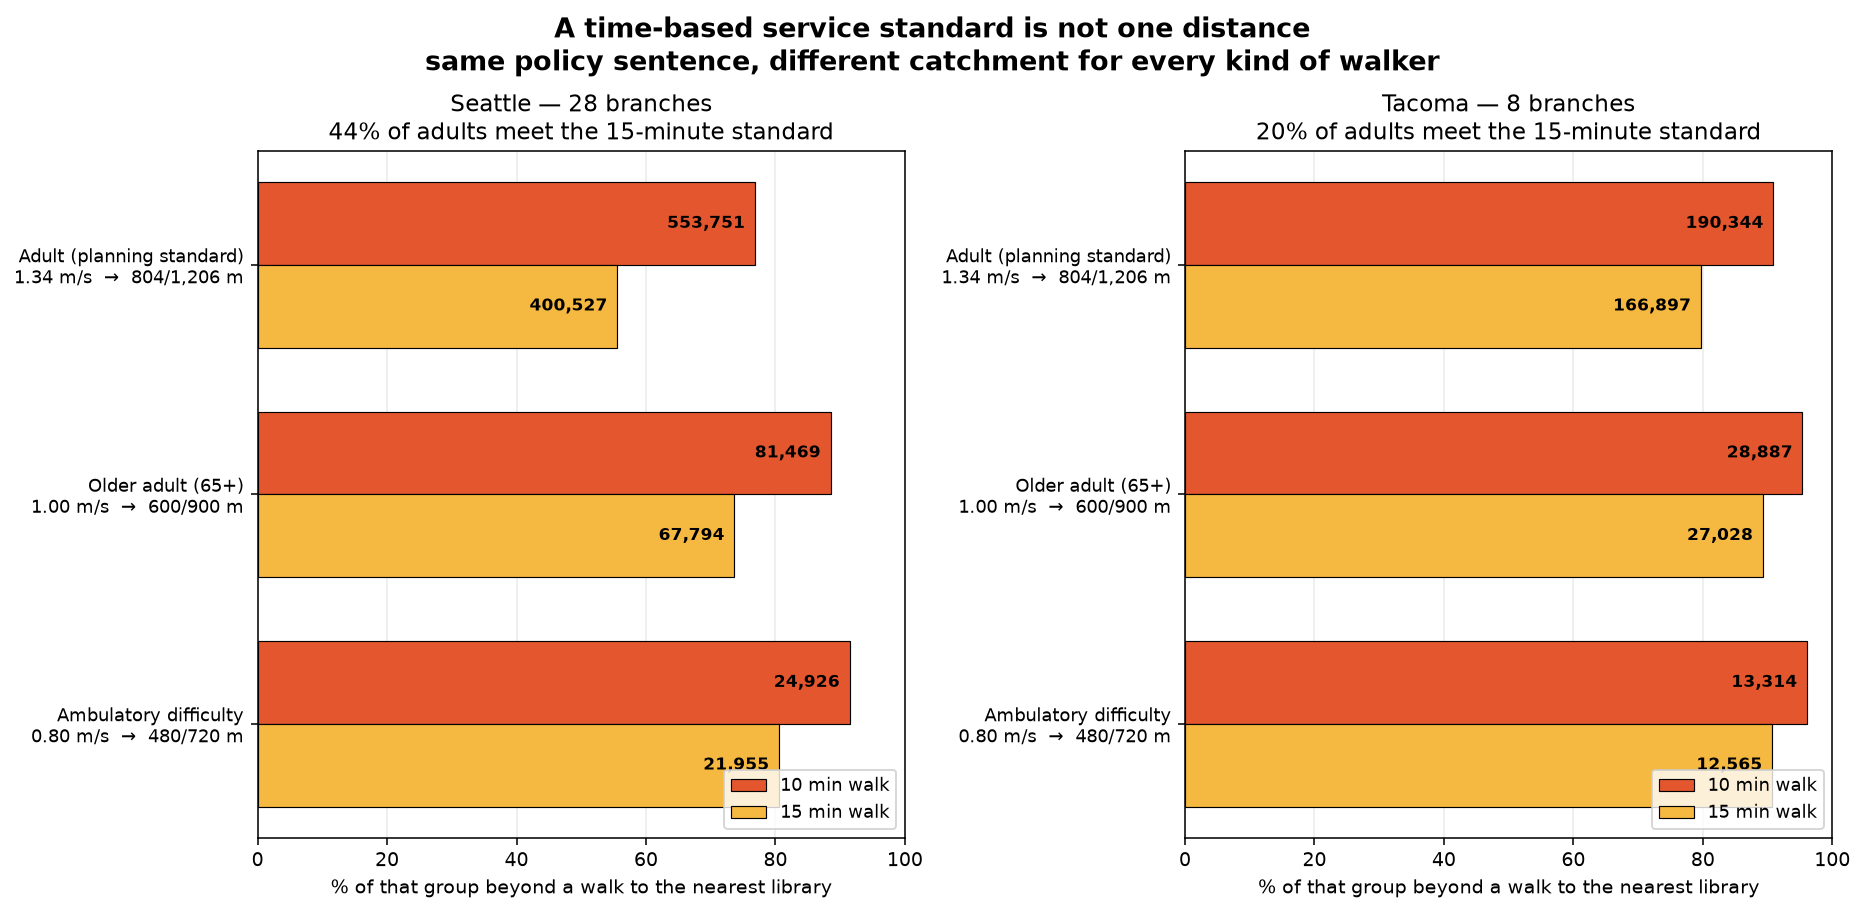
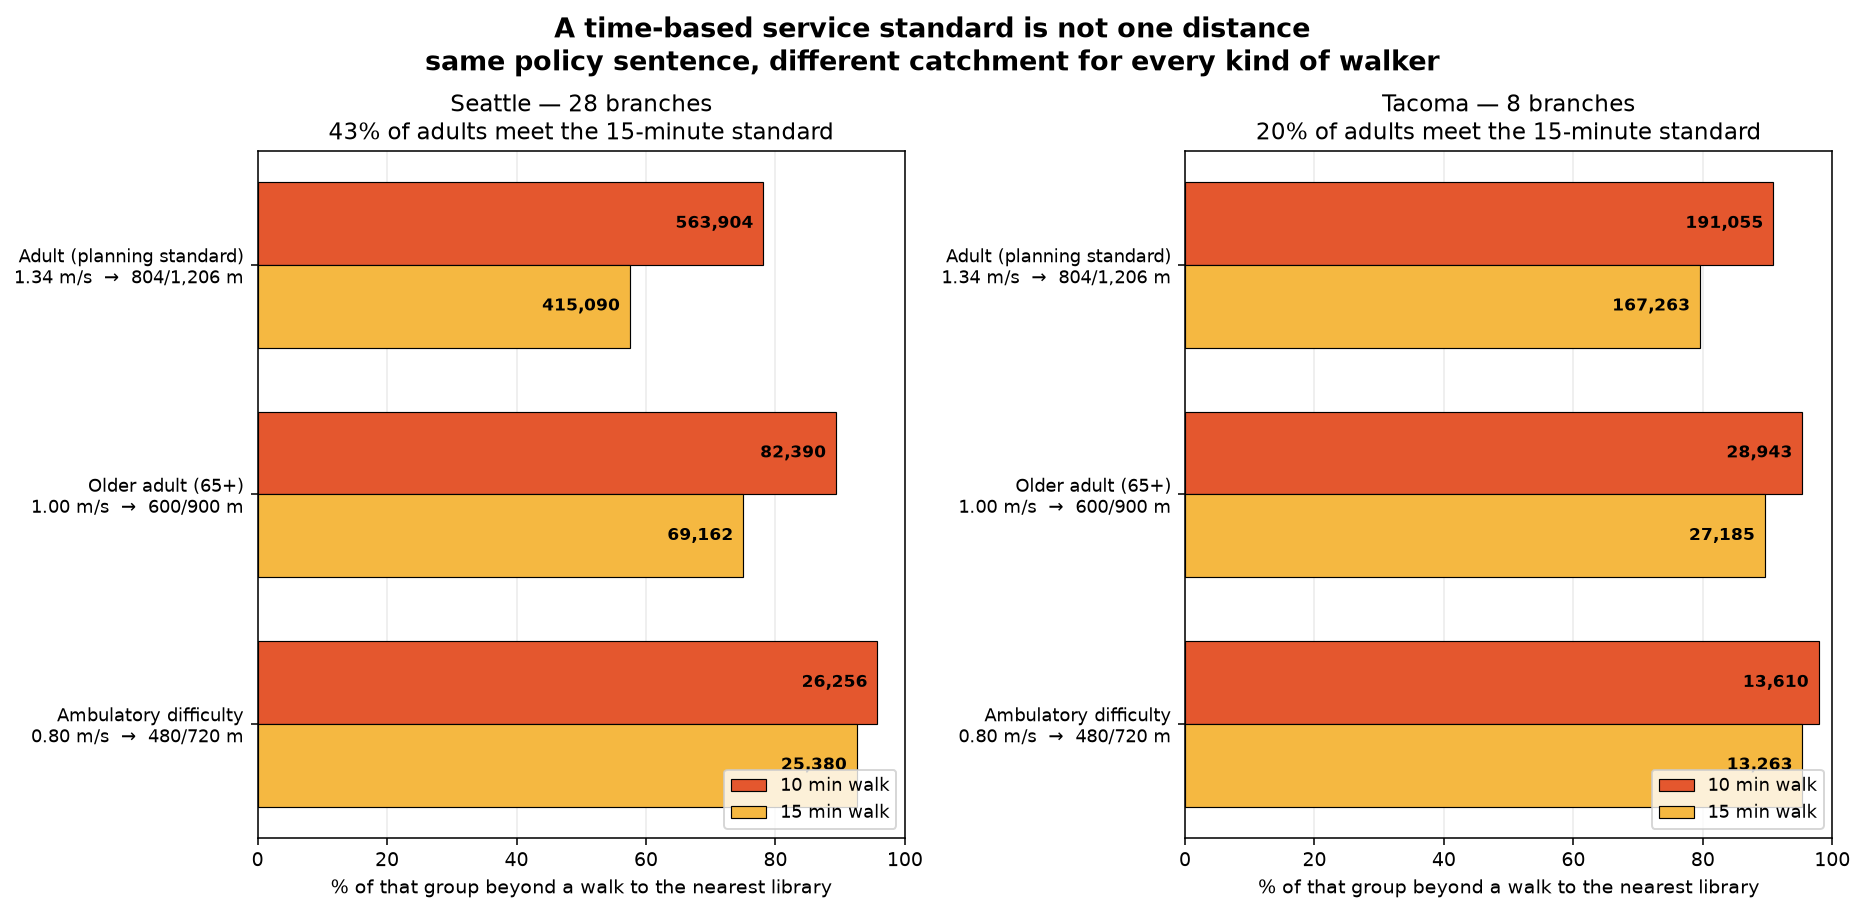
Verify every write-up figure against a fresh run; make ccl installable
Adds scripts/verify_writeup.py, which recomputes all 63 numeric claims in
WRITEUP.md from current data: benchmark table, random distribution percentiles,
correlations, median and worst-point gains, pocket structure, the ladder,
profile distances and percentages, slope decomposition, grade exclusion with its
threshold range, and detour ratios. All 63 match.

Two defects found while checking. The write-up's reproduce block did not work:
uv init created a non-package project, so every entry point needed
PYTHONPATH=src. Added a hatchling build-system with packages = ['src/ccl'], so
'uv run python -m ccl.report seattle' now works from a clean checkout, and
removed the PYTHONPATH prefixes from both documents.

And ccl.viz_standards had been broken since phase 5 - it still imported
'underserved' from ccl.standards, which was renamed to time_underserved when
standards moved from distance to travel time. It is the module that produces the
profile chart the README displays, so the README image was unreproducible.
Ported to the current API; all 20 modules now import from a bare checkout.

diff --git a/scripts/verify_writeup.py b/scripts/verify_writeup.py
@@ -1,0 +1,117 @@
+import numpy as np
+from scipy import ndimage, stats
+from ccl.bench import results, score, random_picks, field_from, CONN4
+from ccl.build import load
+from ccl.cities import PROFILES, distance_m
+from ccl.ladder import rungs
+from ccl.sensitivity import stranded_profile
+
+CITIES = ["seattle", "tacoma", "phoenix"]
+ok = fail = 0
+def chk(label, claim, got, tol=0.0):
+    global ok, fail
+    good = abs(claim - got) <= max(tol, abs(got) * 0.005)
+    print(f"  {'OK ' if good else 'XX '} {label:44s} claim {claim:>12,.2f}  got {got:>12,.2f}")
+    globals().__setitem__('ok', ok + good); globals().__setitem__('fail', fail + (not good))
+
+R = {c: results(c, k=8) for c in CITIES}
+D = {c: load(c) for c in CITIES}
+
+print("BENCHMARK TABLE")
+claims = {
+ "MCLP greedy": [84673, 51174, 86538],
+ "PH by persistence": [25037, 10368, 12462],
+ "PH by population": [16409, 22563, 7283],
+ "worst-point (no topology)": [5139, 6507, 4722],
+}
+for nm, vals in claims.items():
+    for c, v in zip(CITIES, vals):
+        chk(f"{nm[:20]} {c}", v, R[c]["rows"][nm]["covered"] - R[c]["base"]["covered"], 1)
+
+print("\nRANDOM: 30 draws (mean, and % of draws each PH beats)")
+rand_claims = {"seattle": 33845, "tacoma": 21918, "phoenix": 24453}
+pct_claims = {"seattle": (16.7, 0.0), "tacoma": (0.0, 63.3), "phoenix": (0.0, 0.0)}
+best_seattle = None
+for c in CITIES:
+    s, std, base = R[c]["s"], R[c]["standard"], R[c]["base"]["covered"]
+    dr = np.array([score(s, random_picks(s, 8, sd), std)["covered"] - base for sd in range(30)])
+    if c == "seattle": best_seattle = dr.max()
+    chk(f"random mean {c}", rand_claims[c], dr.mean(), 1)
+    for nm, cl in zip(["PH by persistence", "PH by population"], pct_claims[c]):
+        v = R[c]["rows"][nm]["covered"] - base
+        chk(f"{nm[:17]} pctile {c}", cl, 100.0 * (dr < v).mean(), 0.1)
+chk("Seattle best of 30 random draws", 49921, best_seattle, 1)
+
+print("\nMECHANISM: correlations, median gains, worst-point gain")
+corr = {"seattle": (0.01, 0.19), "tacoma": (-0.13, -0.02), "phoenix": (-0.26, -0.25)}
+med = {"seattle": 3575, "tacoma": 2699, "phoenix": 2847}
+wp = {"seattle": 477, "tacoma": 66, "phoenix": 91}
+for c in CITIES:
+    s, d, cov, std = R[c]["s"], D[c], R[c]["cov"], R[c]["standard"]
+    base = field_from(s, d["fac_nodes"])
+    done = ((base <= std) & d["inhabited"]).ravel()
+    pf = np.where(d["inhabited"].ravel(), d["population"].ravel(), 0.0)
+    gain = (cov & ~done) @ pf
+    rem = np.array([base[r, cc] for r, cc in s["cand_rc"]]) / 60.0
+    m = np.isfinite(rem) & np.isfinite(gain)
+    chk(f"pearson {c}", corr[c][0], stats.pearsonr(rem[m], gain[m]).statistic, 0.005)
+    chk(f"spearman {c}", corr[c][1], stats.spearmanr(rem[m], gain[m]).statistic, 0.005)
+    chk(f"median candidate gain {c}", med[c], np.median(gain[m]), 1)
+    chk(f"worst-point site gain {c}", wp[c],
+        np.median(gain[R[c]["picks"]["worst-point (no topology)"]]), 1)
+
+print("\nPOCKET STRUCTURE")
+shares = {"seattle": 40.6, "tacoma": 90.8, "phoenix": 98.4}
+for c in CITIES:
+    s, d, std = R[c]["s"], D[c], R[c]["standard"]
+    base = field_from(s, d["fac_nodes"])
+    lab, n = ndimage.label((base > std) & d["land"], structure=CONN4)
+    pops = np.array(sorted([d["population"][lab == i].sum() for i in range(1, n+1)])[::-1])
+    chk(f"largest pocket share {c}", shares[c], 100*pops[0]/pops.sum(), 0.1)
+    if c == "seattle":
+        for nm, cl in [("PH by persistence", 67639), ("PH by population", 168663)]:
+            rc = s["cand_rc"][R[c]["picks"][nm]]
+            pp = np.array([0.0] + [d["population"][lab == i].sum() for i in range(1, n+1)])
+            chk(f"median pocket pop {nm[6:]}", cl,
+                np.median([pp[lab[r, cc]] for r, cc in rc]), 1)
+
+print("\nLADDER (Seattle)")
+rs = rungs("seattle")
+for i, cl in enumerate([35.8, 55.4, 57.5, 92.5]):
+    chk(f"rung {i+1} pct", cl, rs[i]["pct"], 0.05)
+chk("network step pp", 19.7, rs[1]["pct"]-rs[0]["pct"], 0.05)
+chk("terrain step pp", 2.1, rs[2]["pct"]-rs[1]["pct"], 0.05)
+chk("radius understates, points", 21.7, rs[2]["pct"]-rs[0]["pct"], 0.05)
+chk("radius understates, people", 156787, rs[2]["n"]-rs[0]["n"], 5)
+
+print("\nPROFILES + SLOPE + GRADE EXCLUSION (Seattle)")
+d = D["seattle"]; m = d["land"]
+for p, cl in zip(PROFILES, [1206, 900, 720]):
+    chk(f"{p.key} 15-min distance m", cl, distance_m(p, 15), 1)
+for p, cl in zip(PROFILES, [57.5, 75.0, 92.5]):
+    tot = d[p.pop_field][m].sum()
+    chk(f"{p.key} beyond 15 min pct", cl,
+        100*d[p.pop_field][m & ~(d[f'time_{p.key}'] <= 900)].sum()/tot, 0.05)
+adult, mob = PROFILES[0], PROFILES[2]
+for p, cl in [(adult, 2.1), (mob, 12.3)]:
+    tot = d[p.pop_field][m].sum()
+    with_s = 100*d[p.pop_field][m & ~(d[f'time_{p.key}'] <= 900)].sum()/tot
+    flat = 100*d[p.pop_field][m & (d["network"] > distance_m(p, 15))].sum()/tot
+    chk(f"slope cost {p.key} (pp)", cl, with_s - flat, 0.3)
+st = stranded_profile("seattle")
+chk("no route within 5% grade", 12736, st["count"], 5)
+chk("  as pct of group", 46.0, 100*st["count"]/d["pop_ambulatory"][m].sum(), 0.5)
+chk("threshold range low", 966, st["range"][0], 5)
+chk("threshold range high", 18925, st["range"][1], 5)
+chk("median walk, no slope penalty", 41, st["median_min_no_penalty"], 0.5)
+chk("pct over 60 min, no penalty", 10, st["pct_over_60_no_penalty"], 0.6)
+
+print("\nDETOUR RATIOS")
+for c, cl in [("seattle", 1.32), ("phoenix", 1.35)]:
+    d = D[c]; mm = d["land"] & np.isfinite(d["network"]) & np.isfinite(d["euclidean"])
+    r = d["network"][mm]/np.maximum(d["euclidean"][mm], 1)
+    w = d["population"][mm]; o = np.argsort(r)
+    cw = np.cumsum(w[o])/w.sum()
+    chk(f"median detour {c}", cl, r[o][np.searchsorted(cw, 0.5)], 0.005)
+
+print(f"\n{'=' * 72}\n  {ok} verified, {fail} MISMATCHED\n{'=' * 72}")

diff --git a/src/ccl/viz_standards.py b/src/ccl/viz_standards.py
@@ -7,7 +7,7 @@ import numpy as np
 
 from ccl.build import load
 from ccl.cities import PROFILES, TIME_BUDGETS_MIN, distance_m, get
-from ccl.standards import underserved
+from ccl.standards import time_underserved
 
 OUT = Path(__file__).resolve().parents[2] / "out"
 COLORS = {10: "#e4572e", 15: "#f5b841"}
@@ -25,7 +25,7 @@ def plot(city_keys=("seattle", "tacoma")) -> Path:
         for i, minutes in enumerate(TIME_BUDGETS_MIN):
             pct, labels = [], []
             for p in PROFILES:
-                b, t = underserved(d, "network", p.pop_field, distance_m(p, minutes))
+                b, t, _ = time_underserved(d, p, minutes)
                 pct.append(100 * b / t)
                 labels.append(f"{b:,.0f}")
             off = (i - 0.5) * h
@@ -44,10 +44,8 @@ def plot(city_keys=("seattle", "tacoma")) -> Path:
         ax.invert_yaxis()
         ax.set_xlim(0, 100)
         ax.set_xlabel("% of that group beyond a walk to the nearest library")
-        cov = 100 * (1 - underserved(d, "network", "population",
-                                     distance_m(PROFILES[0], 15))[0]
-                     / underserved(d, "network", "population",
-                                   distance_m(PROFILES[0], 15))[1])
+        b15, t15, _ = time_underserved(d, PROFILES[0], 15)
+        cov = 100 * (1 - b15 / t15)
         ax.set_title(f"{city.place.split(',')[0]} — {int(d['fac_nodes'].size)} branches\n"
                      f"{cov:.0f}% of adults meet the 15-minute standard", fontsize=12)
         ax.grid(axis="x", alpha=0.25)

diff --git a/README.md b/README.md
@@ -267,7 +267,7 @@ walker-profile breakdown, the slope/ADA page, underserved pockets with populatio
 and the siting benchmark, with methods and caveats stated on the page.
 
 ```bash
-PYTHONPATH=src uv run python -m ccl.report seattle tacoma
+uv run python -m ccl.report seattle tacoma
 ```
 
 
@@ -678,11 +678,11 @@ uv run python src/ccl/fetch.py               # Seattle City GIS facility layers
 uv run python src/ccl/fields.py libraries    # both distance fields (~1 min)
 uv run python src/ccl/demand.py              # ACS + TIGER water rasters
 uv run python src/ccl/persistence.py libraries
-PYTHONPATH=src uv run python -m ccl.rank libraries
-PYTHONPATH=src uv run python -m ccl.viz libraries
-PYTHONPATH=src uv run python -m ccl.viz_demand libraries
-PYTHONPATH=src uv run python -m ccl.mclp libraries        # siting benchmark
-PYTHONPATH=src uv run python -m ccl.objectives libraries  # multi-objective comparison
+uv run python -m ccl.rank libraries
+uv run python -m ccl.viz libraries
+uv run python -m ccl.viz_demand libraries
+uv run python -m ccl.mclp libraries        # siting benchmark
+uv run python -m ccl.objectives libraries  # multi-objective comparison
 ```
 
 Needs `CENSUS_DATA_API_KEY` in `.env` ([free signup](https://api.census.gov/data/key_signup.html)).

diff --git a/WRITEUP.md b/WRITEUP.md
@@ -186,3 +186,9 @@ uv run python -m ccl.report seattle tacoma phoenix
 
 Eight pages per city. Public data only: OpenStreetMap, Census ACS and TIGER, USGS 3DEP,
 municipal open data.
+
+---
+
+Every figure above is re-derived from a fresh run by
+[`scripts/verify_writeup.py`](scripts/verify_writeup.py) — 63 assertions, all passing
+against the current build.
